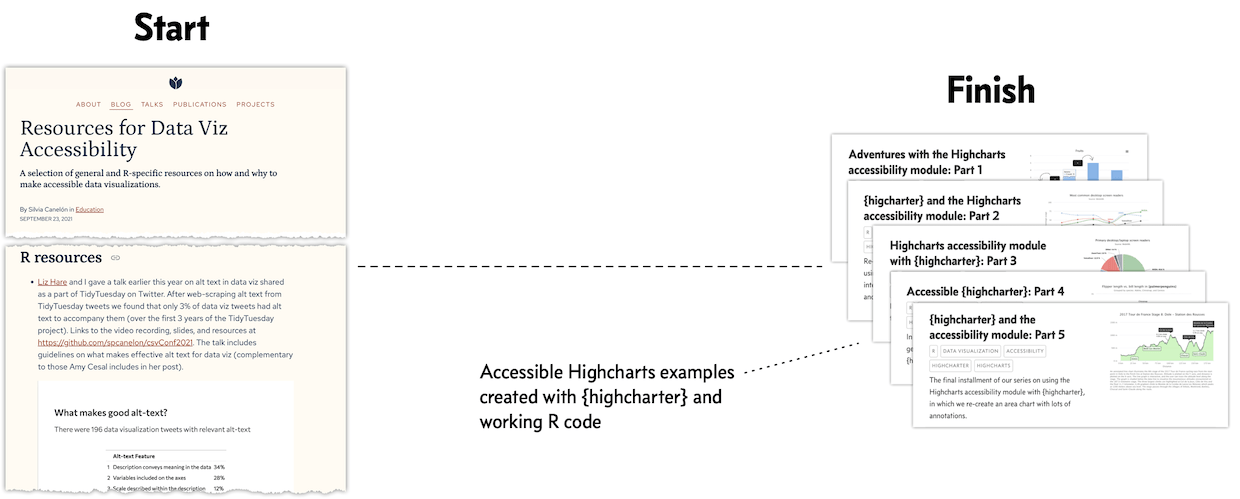
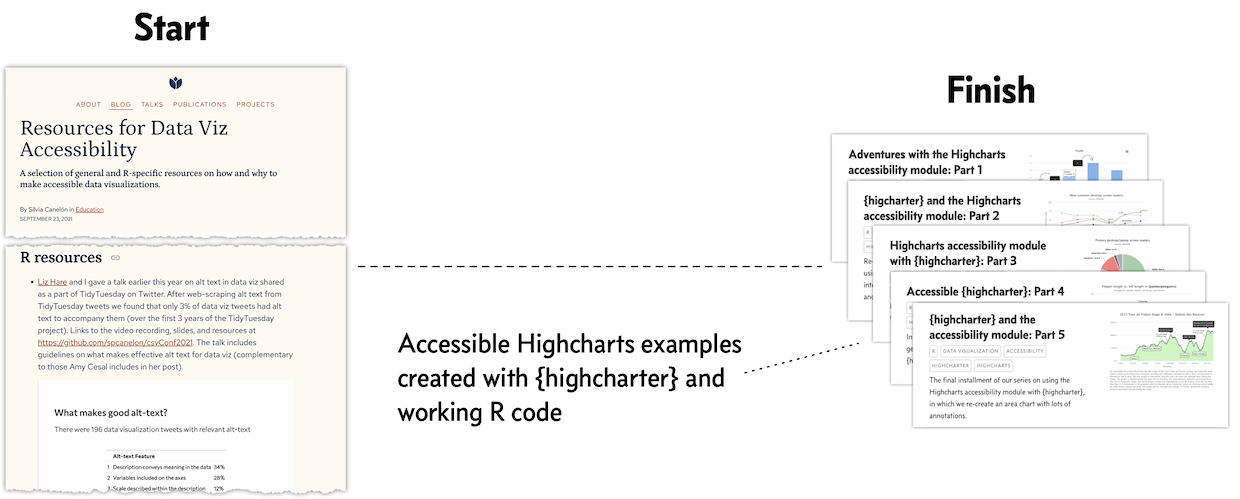
Increase text size on images

Changed region(s): [[0.3065, 0.6613, 0.6129, 0.8717]]

diff --git a/highcharter-a11y-talk.html b/highcharter-a11y-talk.html
@@ -534,8 +534,8 @@
 <p>Now with working keyboard navigation! 🎉</p>
 <div class="cell">
 <div class="cell-output-display">
-<div id="htmlwidget-6d2988297042fa8b3722" style="width:960px;height:480px;" class="highchart html-widget"></div>
-<script type="application/json" data-for="htmlwidget-6d2988297042fa8b3722">{"x":{"hc_opts":{"chart":{"reflow":true},"title":{"text":"Fruits"},"yAxis":{"title":{"text":null}},"credits":{"enabled":false},"exporting":{"enabled":true,"accessibility":{"enabled":true}},"boost":{"enabled":false},"plotOptions":{"series":{"label":{"enabled":false},"turboThreshold":0},"treemap":{"layoutAlgorithm":"squarified"},"accessibility":{"enabled":true,"keyboardNavigation":{"enabled":true}}},"xAxis":{"categories":["apple","banana","orange","pear"]},"series":[{"data":[2,3,5,4],"type":"column","name":"Count"}]},"theme":{"chart":{"backgroundColor":"transparent"},"colors":["#7cb5ec","#434348","#90ed7d","#f7a35c","#8085e9","#f15c80","#e4d354","#2b908f","#f45b5b","#91e8e1"]},"conf_opts":{"global":{"Date":null,"VMLRadialGradientURL":"http =//code.highcharts.com/list(version)/gfx/vml-radial-gradient.png","canvasToolsURL":"http =//code.highcharts.com/list(version)/modules/canvas-tools.js","getTimezoneOffset":null,"timezoneOffset":0,"useUTC":true},"lang":{"contextButtonTitle":"Chart context menu","decimalPoint":".","downloadCSV":"Download CSV","downloadJPEG":"Download JPEG image","downloadPDF":"Download PDF document","downloadPNG":"Download PNG image","downloadSVG":"Download SVG vector image","downloadXLS":"Download XLS","drillUpText":"◁ Back to {series.name}","exitFullscreen":"Exit from full screen","exportData":{"annotationHeader":"Annotations","categoryDatetimeHeader":"DateTime","categoryHeader":"Category"},"hideData":"Hide data table","invalidDate":null,"loading":"Loading...","months":["January","February","March","April","May","June","July","August","September","October","November","December"],"noData":"No data to display","numericSymbolMagnitude":1000,"numericSymbols":["k","M","G","T","P","E"],"printChart":"Print chart","resetZoom":"Reset zoom","resetZoomTitle":"Reset zoom level 1:1","shortMonths":["Jan","Feb","Mar","Apr","May","Jun","Jul","Aug","Sep","Oct","Nov","Dec"],"shortWeekdays":["Sat","Sun","Mon","Tue","Wed","Thu","Fri"],"thousandsSep":" ","viewData":"View data table","viewFullscreen":"View in full screen","weekdays":["Sunday","Monday","Tuesday","Wednesday","Thursday","Friday","Saturday"]}},"type":"chart","fonts":[],"debug":false},"evals":[],"jsHooks":[]}</script>
+<div id="htmlwidget-918c17d01e458af619bb" style="width:960px;height:480px;" class="highchart html-widget"></div>
+<script type="application/json" data-for="htmlwidget-918c17d01e458af619bb">{"x":{"hc_opts":{"chart":{"reflow":true},"title":{"text":"Fruits"},"yAxis":{"title":{"text":null}},"credits":{"enabled":false},"exporting":{"enabled":true,"accessibility":{"enabled":true}},"boost":{"enabled":false},"plotOptions":{"series":{"label":{"enabled":false},"turboThreshold":0},"treemap":{"layoutAlgorithm":"squarified"},"accessibility":{"enabled":true,"keyboardNavigation":{"enabled":true}}},"xAxis":{"categories":["apple","banana","orange","pear"]},"series":[{"data":[2,3,5,4],"type":"column","name":"Count"}]},"theme":{"chart":{"backgroundColor":"transparent"},"colors":["#7cb5ec","#434348","#90ed7d","#f7a35c","#8085e9","#f15c80","#e4d354","#2b908f","#f45b5b","#91e8e1"]},"conf_opts":{"global":{"Date":null,"VMLRadialGradientURL":"http =//code.highcharts.com/list(version)/gfx/vml-radial-gradient.png","canvasToolsURL":"http =//code.highcharts.com/list(version)/modules/canvas-tools.js","getTimezoneOffset":null,"timezoneOffset":0,"useUTC":true},"lang":{"contextButtonTitle":"Chart context menu","decimalPoint":".","downloadCSV":"Download CSV","downloadJPEG":"Download JPEG image","downloadPDF":"Download PDF document","downloadPNG":"Download PNG image","downloadSVG":"Download SVG vector image","downloadXLS":"Download XLS","drillUpText":"◁ Back to {series.name}","exitFullscreen":"Exit from full screen","exportData":{"annotationHeader":"Annotations","categoryDatetimeHeader":"DateTime","categoryHeader":"Category"},"hideData":"Hide data table","invalidDate":null,"loading":"Loading...","months":["January","February","March","April","May","June","July","August","September","October","November","December"],"noData":"No data to display","numericSymbolMagnitude":1000,"numericSymbols":["k","M","G","T","P","E"],"printChart":"Print chart","resetZoom":"Reset zoom","resetZoomTitle":"Reset zoom level 1:1","shortMonths":["Jan","Feb","Mar","Apr","May","Jun","Jul","Aug","Sep","Oct","Nov","Dec"],"shortWeekdays":["Sat","Sun","Mon","Tue","Wed","Thu","Fri"],"thousandsSep":" ","viewData":"View data table","viewFullscreen":"View in full screen","weekdays":["Sunday","Monday","Tuesday","Wednesday","Thursday","Friday","Saturday"]}},"type":"chart","fonts":[],"debug":false},"evals":[],"jsHooks":[]}</script>
 </div>
 </div>
 <div class="footer">
@@ -545,14 +545,26 @@
 <p>This example, which I got working, came from a GitHub issue in which the user described the expected behavior (working keyboard navigation), and the fact that they weren’t able to get it to work with the highcharter package.</p>
 </aside>
 </section>
-<section id="this-talk" class="slide level2">
-<h2>This talk…</h2>
-<div class="r-stack">
-<p><img data-src="images/1-highcharter-diagram-start-finish-learning-along-the-way-min.png">{.fragment width=“998” height”401”} <img data-src="images/2-highcharter-diagram-start-finish-learning-along-the-way-min.png">{.fragment width=“998” height”401”}</p>
-<p><img data-src="images/3-highcharter-diagram-start-finish-learning-along-the-way-min.png">{.fragment width=“998” height”401”}</p>
-<p><img data-src="images/4-highcharter-diagram-start-finish-learning-along-the-way-min.png">{.fragment width=“998” height”401”}</p>
-</div>
-</section>
+<section class="slide level2">
+
+<h3 id="my-journey">My journey</h3>
+
+<img data-src="images/1-highcharter-diagram-start-finish-learning-along-the-way-min.png" alt="Start point Resources for Data Viz Accessibility, Finish point five blog posts on accessibility with Highcharts and highcharter" class="r-stretch"></section>
+<section class="slide level2">
+
+<h3 id="my-journey-1">My journey</h3>
+
+<img data-src="images/2-highcharter-diagram-start-finish-learning-along-the-way-min.png" alt="Start point Resources for Data Viz Accessibility, Finish point five blog posts on accessibility with Highcharts and highcharter. Annotation pointing to Finish reads: Accessible Highcharts examples created with highcharter and working R code." class="r-stretch"></section>
+<section class="slide level2">
+
+<h3 id="my-journey-2">My journey</h3>
+
+<img data-src="images/3-highcharter-diagram-start-finish-learning-along-the-way-min.png" alt="Start point Resources for Data Viz Accessibility, Finish point five blog posts on accessibility with Highcharts and highcharter. Annotation pointing to Finish reads: Accessible Highcharts examples created with highcharter and working R code. Annotation pointing to center of line connecting start and finish reads: Me learning things along the way." class="r-stretch"></section>
+<section class="slide level2">
+
+<h3 id="my-journey-3">My journey</h3>
+
+<img data-src="images/4-highcharter-diagram-start-finish-learning-along-the-way-min.png" alt="Start point Resources for Data Viz Accessibility, Finish point five blog posts on accessibility with Highcharts and highcharter. Annotation pointing to Finish reads: Accessible Highcharts examples created with highcharter and working R code. Annotation pointing to center of line connecting start and finish reads: Me learning things along the way.  Red line pointing to that annotation read THIS TALK." class="r-stretch"></section>
 <section class="slide level2">
 
 <h3 id="san-francisco-arts-commission-example">San Francisco Arts Commission Example</h3>
